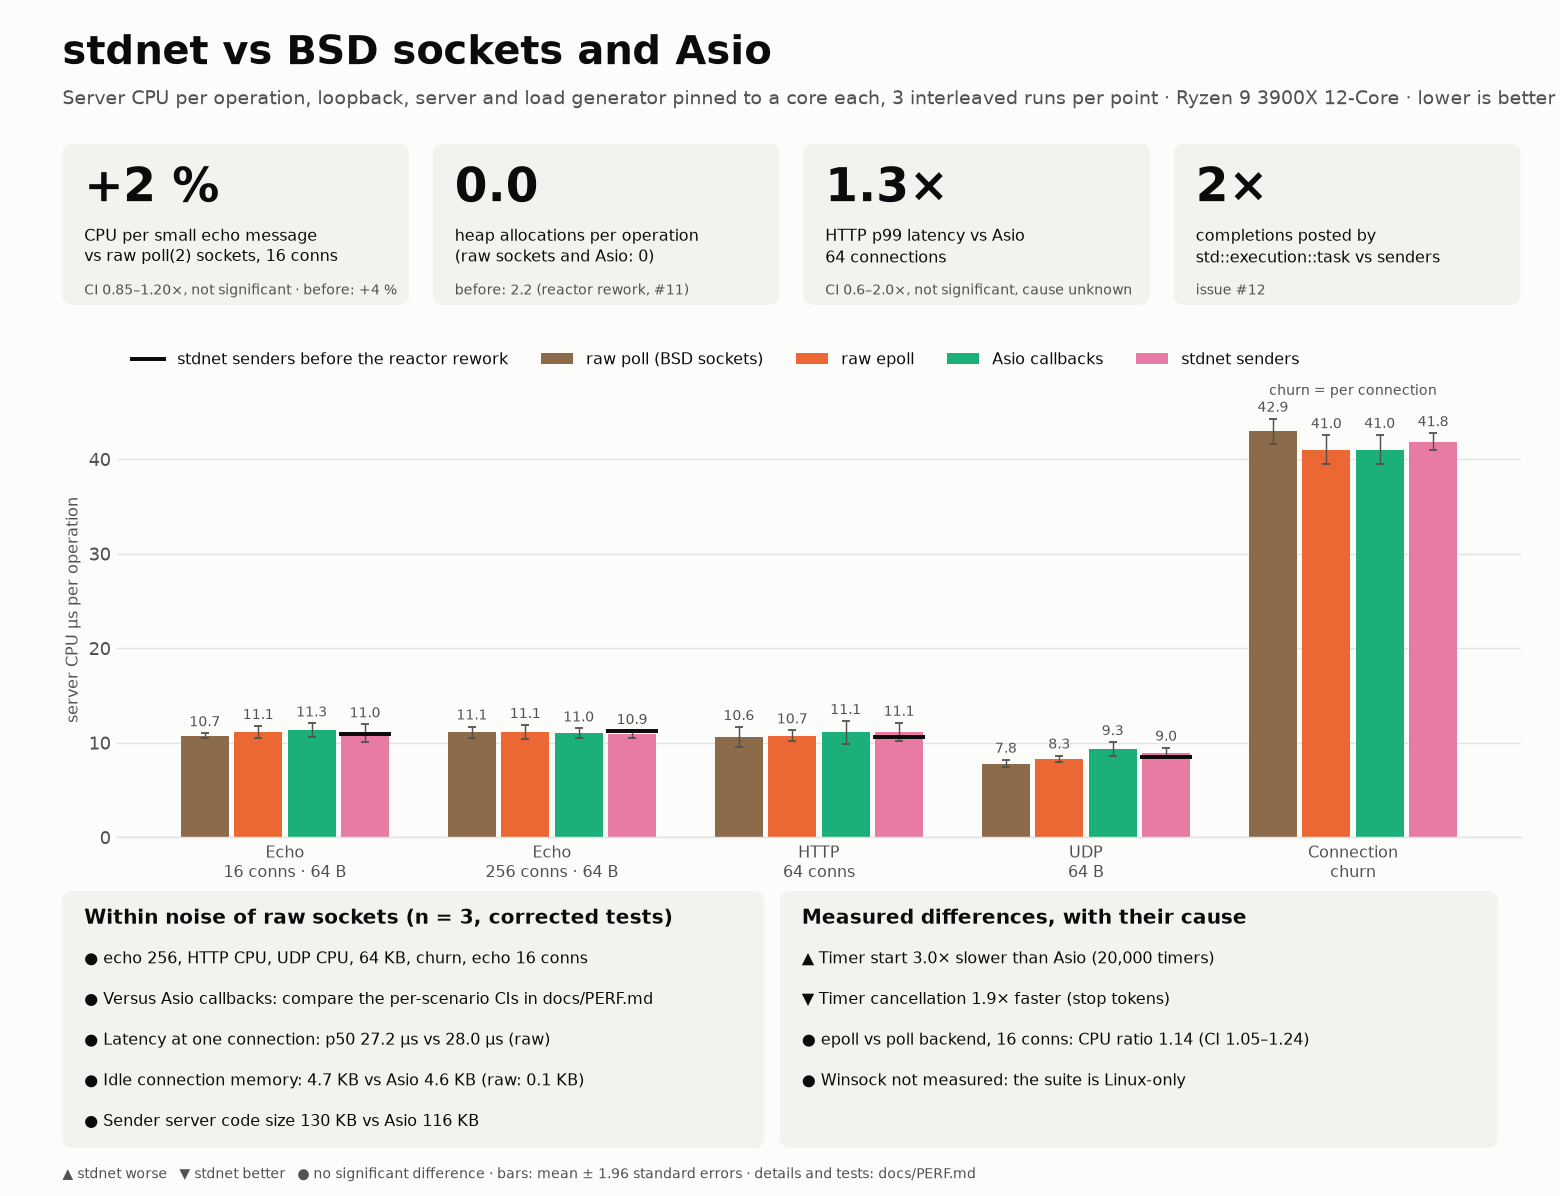
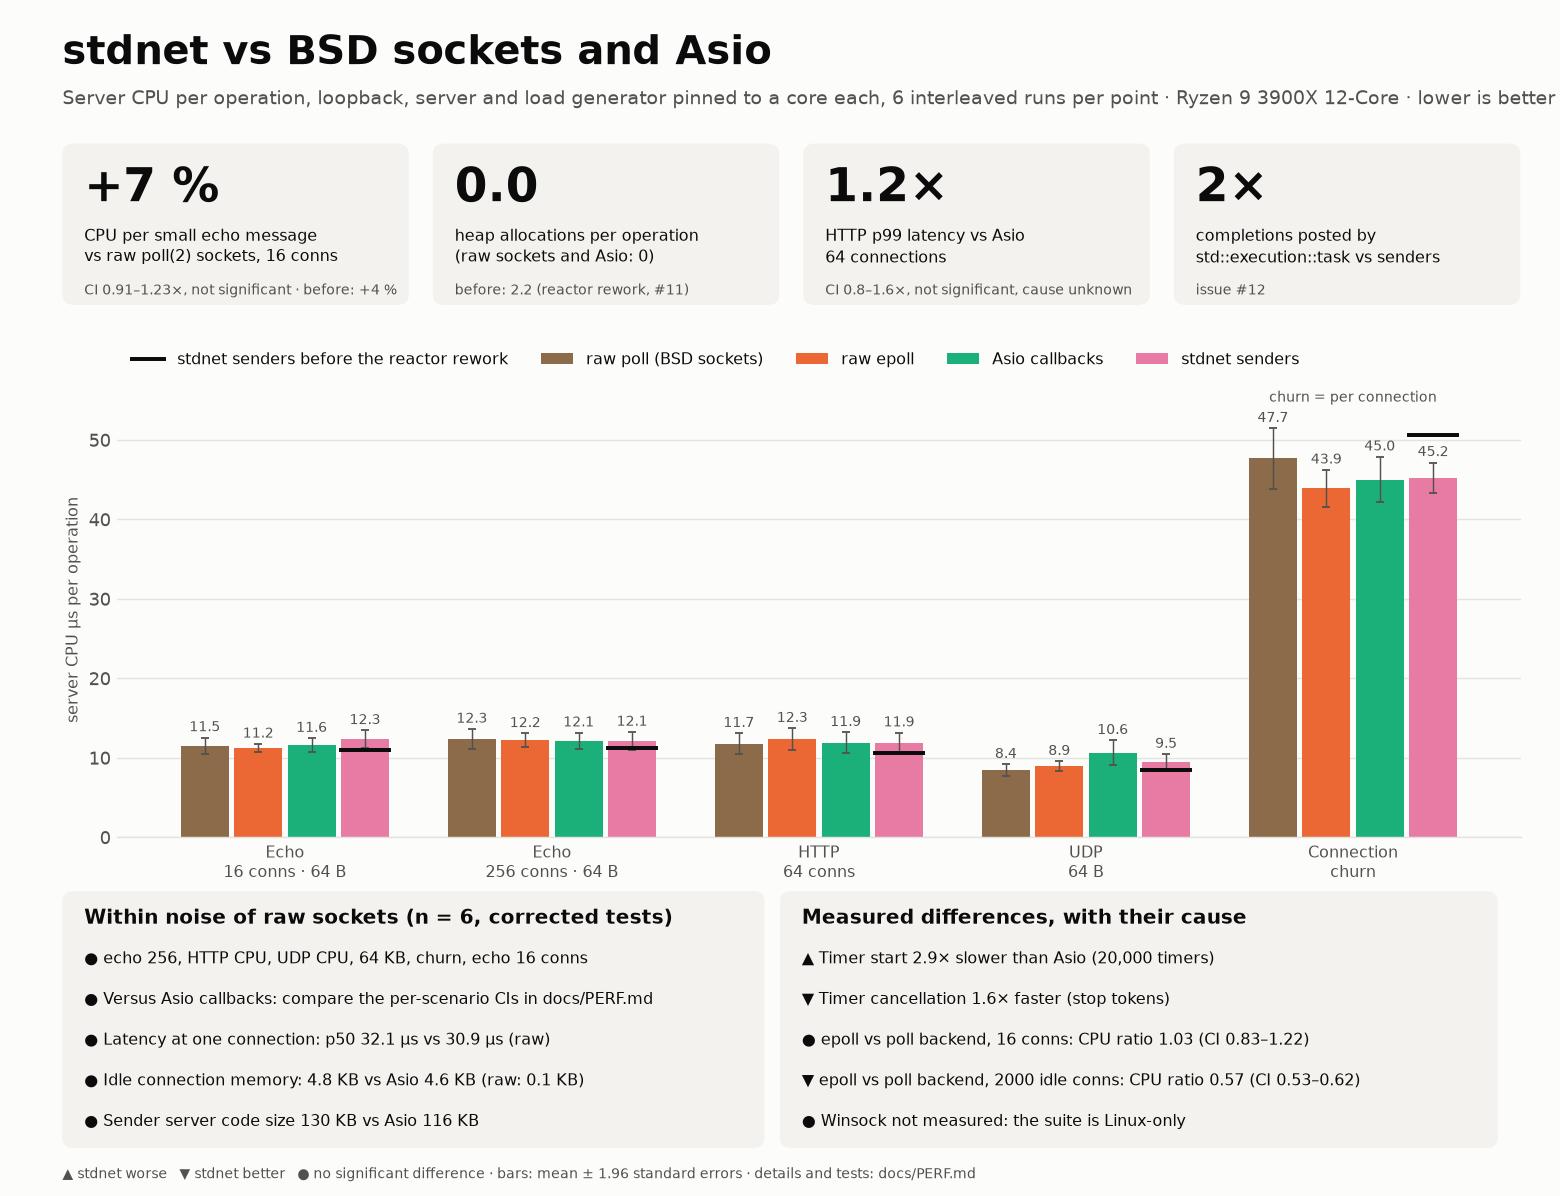
Benchmark: epoll against poll at 16, 256 and 2000 idle connections; regenerate the infographic; PERF.md closes the #11 criterion

diff --git a/bench/infographic.py b/bench/infographic.py
@@ -55,6 +55,7 @@ def main(run_dir, out, base_dir=None):
     tstart = welch([x["stdnet"]["start_ms"] for x in T], [x["asio"]["start_ms"] for x in T])[0]
     tcancel = welch([x["stdnet"]["cancel_ms"] for x in T], [x["asio"]["cancel_ms"] for x in T])[0]
     e_p = cmp("backend", "stdnet_senders", "stdnet_senders_poll", "cpu_us_per_op", conns=16)
+    e_i = cmp("backend", "stdnet_senders", "stdnet_senders_poll", "cpu_us_per_op", conns=2000)
     comp = {b_["variant"]: b_ for b_ in R.get("build", [])}
     p50 = one(S["echo"], variant="stdnet_senders", conns=1, size=64)["p50_us"]
     p50r = one(S["echo"], variant="raw_poll", conns=1, size=64)["p50_us"]
@@ -109,7 +110,7 @@ def main(run_dir, out, base_dir=None):
     ax.set_xticks(range(len(scen)), [s[0] for s in scen], fontsize=9)
     ax.set_ylabel("server CPU µs per operation", color=INK2, fontsize=9)
     top = max(g(sc, v, **f)["cpu_us_per_op"] for v in VARS for _, sc, f in scen)
-    ax.set_ylim(0, top * 1.12)
+    ax.set_ylim(0, top * 1.2)
     ax.grid(axis="y", color=GRID, linewidth=0.8)
     ax.set_axisbelow(True)
     for s in ("top", "right", "left"):
@@ -117,7 +118,7 @@ def main(run_dir, out, base_dir=None):
     ax.spines["bottom"].set_color(GRID)
     ax.tick_params(colors=INK2, length=0)
     ax.legend(loc="upper left", ncol=5, frameon=False, fontsize=9, bbox_to_anchor=(0, 1.1))
-    ax.text(len(scen) - 1, top * 1.09, "churn = per connection", fontsize=7.5, color=INK2, ha="center")
+    ax.text(len(scen) - 1, top * 1.15, "churn = per connection", fontsize=7.5, color=INK2, ha="center")
 
     # bottom panels
     def panel(x0, w_, title, lines):
@@ -152,6 +153,8 @@ def main(run_dir, out, base_dir=None):
            (True, f"Timer cancellation {1 / tcancel:.1f}× faster (stop tokens)"),
            (None if e_p[2] >= 0.05 / 32 else (True if e_p[0] < 1 else False),
             f"epoll vs poll backend, 16 conns: CPU ratio {e_p[0]:.2f} (CI {e_p[1][0]:.2f}–{e_p[1][1]:.2f})"),
+           (None if e_i[2] >= 0.05 / 32 else (True if e_i[0] < 1 else False),
+            f"epoll vs poll backend, 2000 idle conns: CPU ratio {e_i[0]:.2f} (CI {e_i[1][0]:.2f}–{e_i[1][1]:.2f})"),
            (None, "Winsock not measured: the suite is Linux-only")])
     fig.text(0.04, 0.018, "▲ stdnet worse   ▼ stdnet better   ● no significant difference · bars: mean ± 1.96 standard errors · "
              "details and tests: docs/PERF.md", fontsize=8, color=INK2, va="center")

diff --git a/bench/run.py b/bench/run.py
@@ -359,7 +359,9 @@ def points(args):
     P.append(("udp", "udp", VARIANTS, dict(conns=4, size=64, window=16, **d)))
     P.append(("churn", "churn", VARIANTS, dict(conns=16, size=64, **d)))
     P.append(("idle", "idle", ["asio_callbacks", "stdnet_senders"], dict(conns=2000, active=20, size=64, **d)))
-    P.append(("backend", "echo", ["stdnet_senders", "stdnet_senders_poll"], dict(conns=16, size=64, **d)))
+    for conns in (16, 256):
+        P.append(("backend", "echo", ["stdnet_senders", "stdnet_senders_poll"], dict(conns=conns, size=64, **d)))
+    P.append(("backend", "idle", ["stdnet_senders", "stdnet_senders_poll"], dict(conns=2000, active=20, size=64, **d)))
     return P
 
 

diff --git a/docs/PERF.md b/docs/PERF.md
@@ -154,6 +154,30 @@ of 11. The **epoll / poll CPU ratio at 16 connections is 1.00 (0.91–1.09)**, b
 reproduced, so on this machine epoll ≥ poll is still "not distinguishable", not shown. A new
 test covers the arm / disarm cycle (a write blocked on a full socket buffer, three rounds).
 
+## epoll against poll, closing #11
+
+The last open criterion of #11 was "epoll backend ≥ poll backend". `bench/run.py` now measures
+both stdnet backends at 16 and 256 active connections and with 2 000 connections of which 20 are
+active (Ryzen 9 3900X, one core each for server and load generator, interleaved, CPU µs per
+echo message, epoll / poll):
+
+| connections | epoll | poll | ratio (95 % CI) | |
+|---|---|---|---|---|
+| 16 | 12.8 | 12.5 | 1.03 (0.83–1.22) | not distinguishable |
+| 256 | 12.0 | 12.5 | 0.96 (0.85–1.07) | not distinguishable |
+| 2 000 (20 active) | 11.4 | 19.9 | **0.57 (0.53–0.62)** | epoll better, significant |
+| 10 000 (100 active, 5 runs, one-off) | 12.4 | 56.6 | **0.22 (0.18–0.26)** | epoll better, significant |
+
+At 10 000 connections the throughput is 4.4× that of poll and the p99 0.22×. When every
+connection is active (16, 256) the two backends do the same work per message and the kernel
+dominates, so the difference is below the noise of a 6-run test (a 6 % to 20 % difference
+cannot be excluded either way); the gap of #10 (poll 140 k against epoll 121 k messages per
+second, significant) is gone since the spurious writability events were removed. What the
+poll backend pays is proportional to the number of descriptors at every wait, and the measure
+shows it as soon as most connections are idle, which is the case epoll exists for. "≥" is thus
+established where the designs differ and as parity (not shown to be better, not worse beyond
+the intervals above) where they do not.
+
 ## Why removing the allocations did not show in CPU time, and the tail it exposed
 
 Two questions came out of the campaigns above: why did a change that removes 2–3 allocations and
